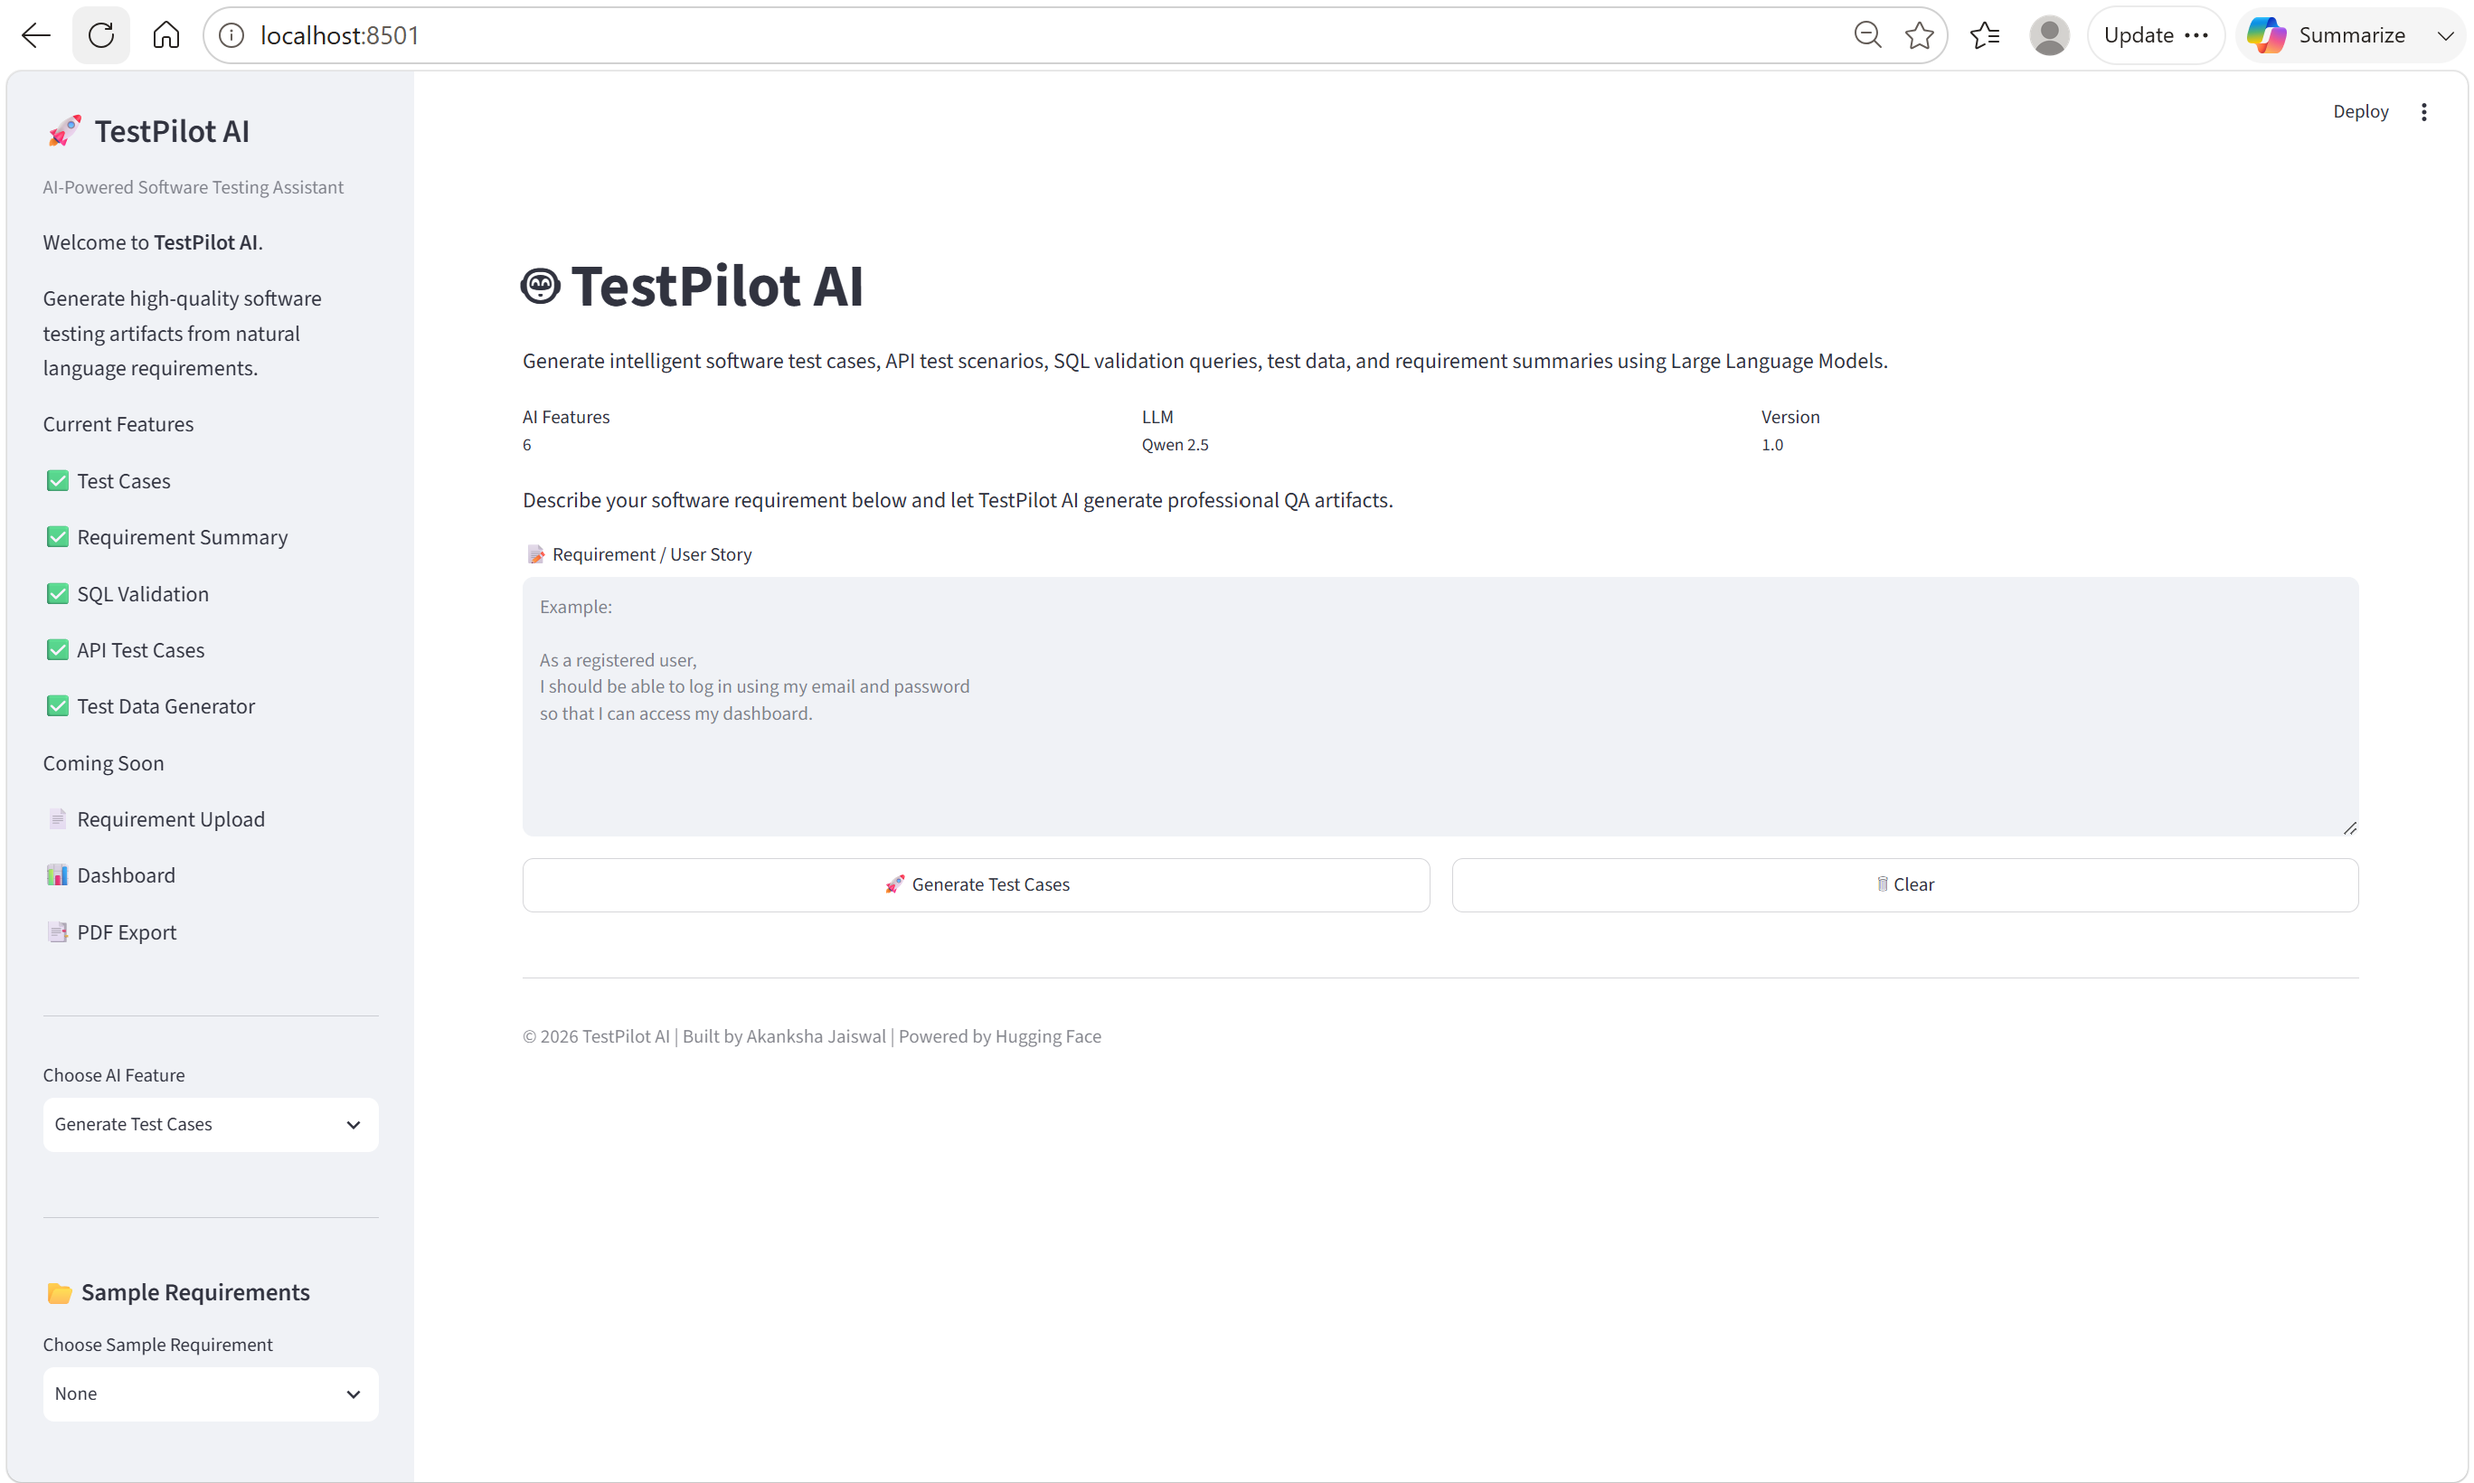
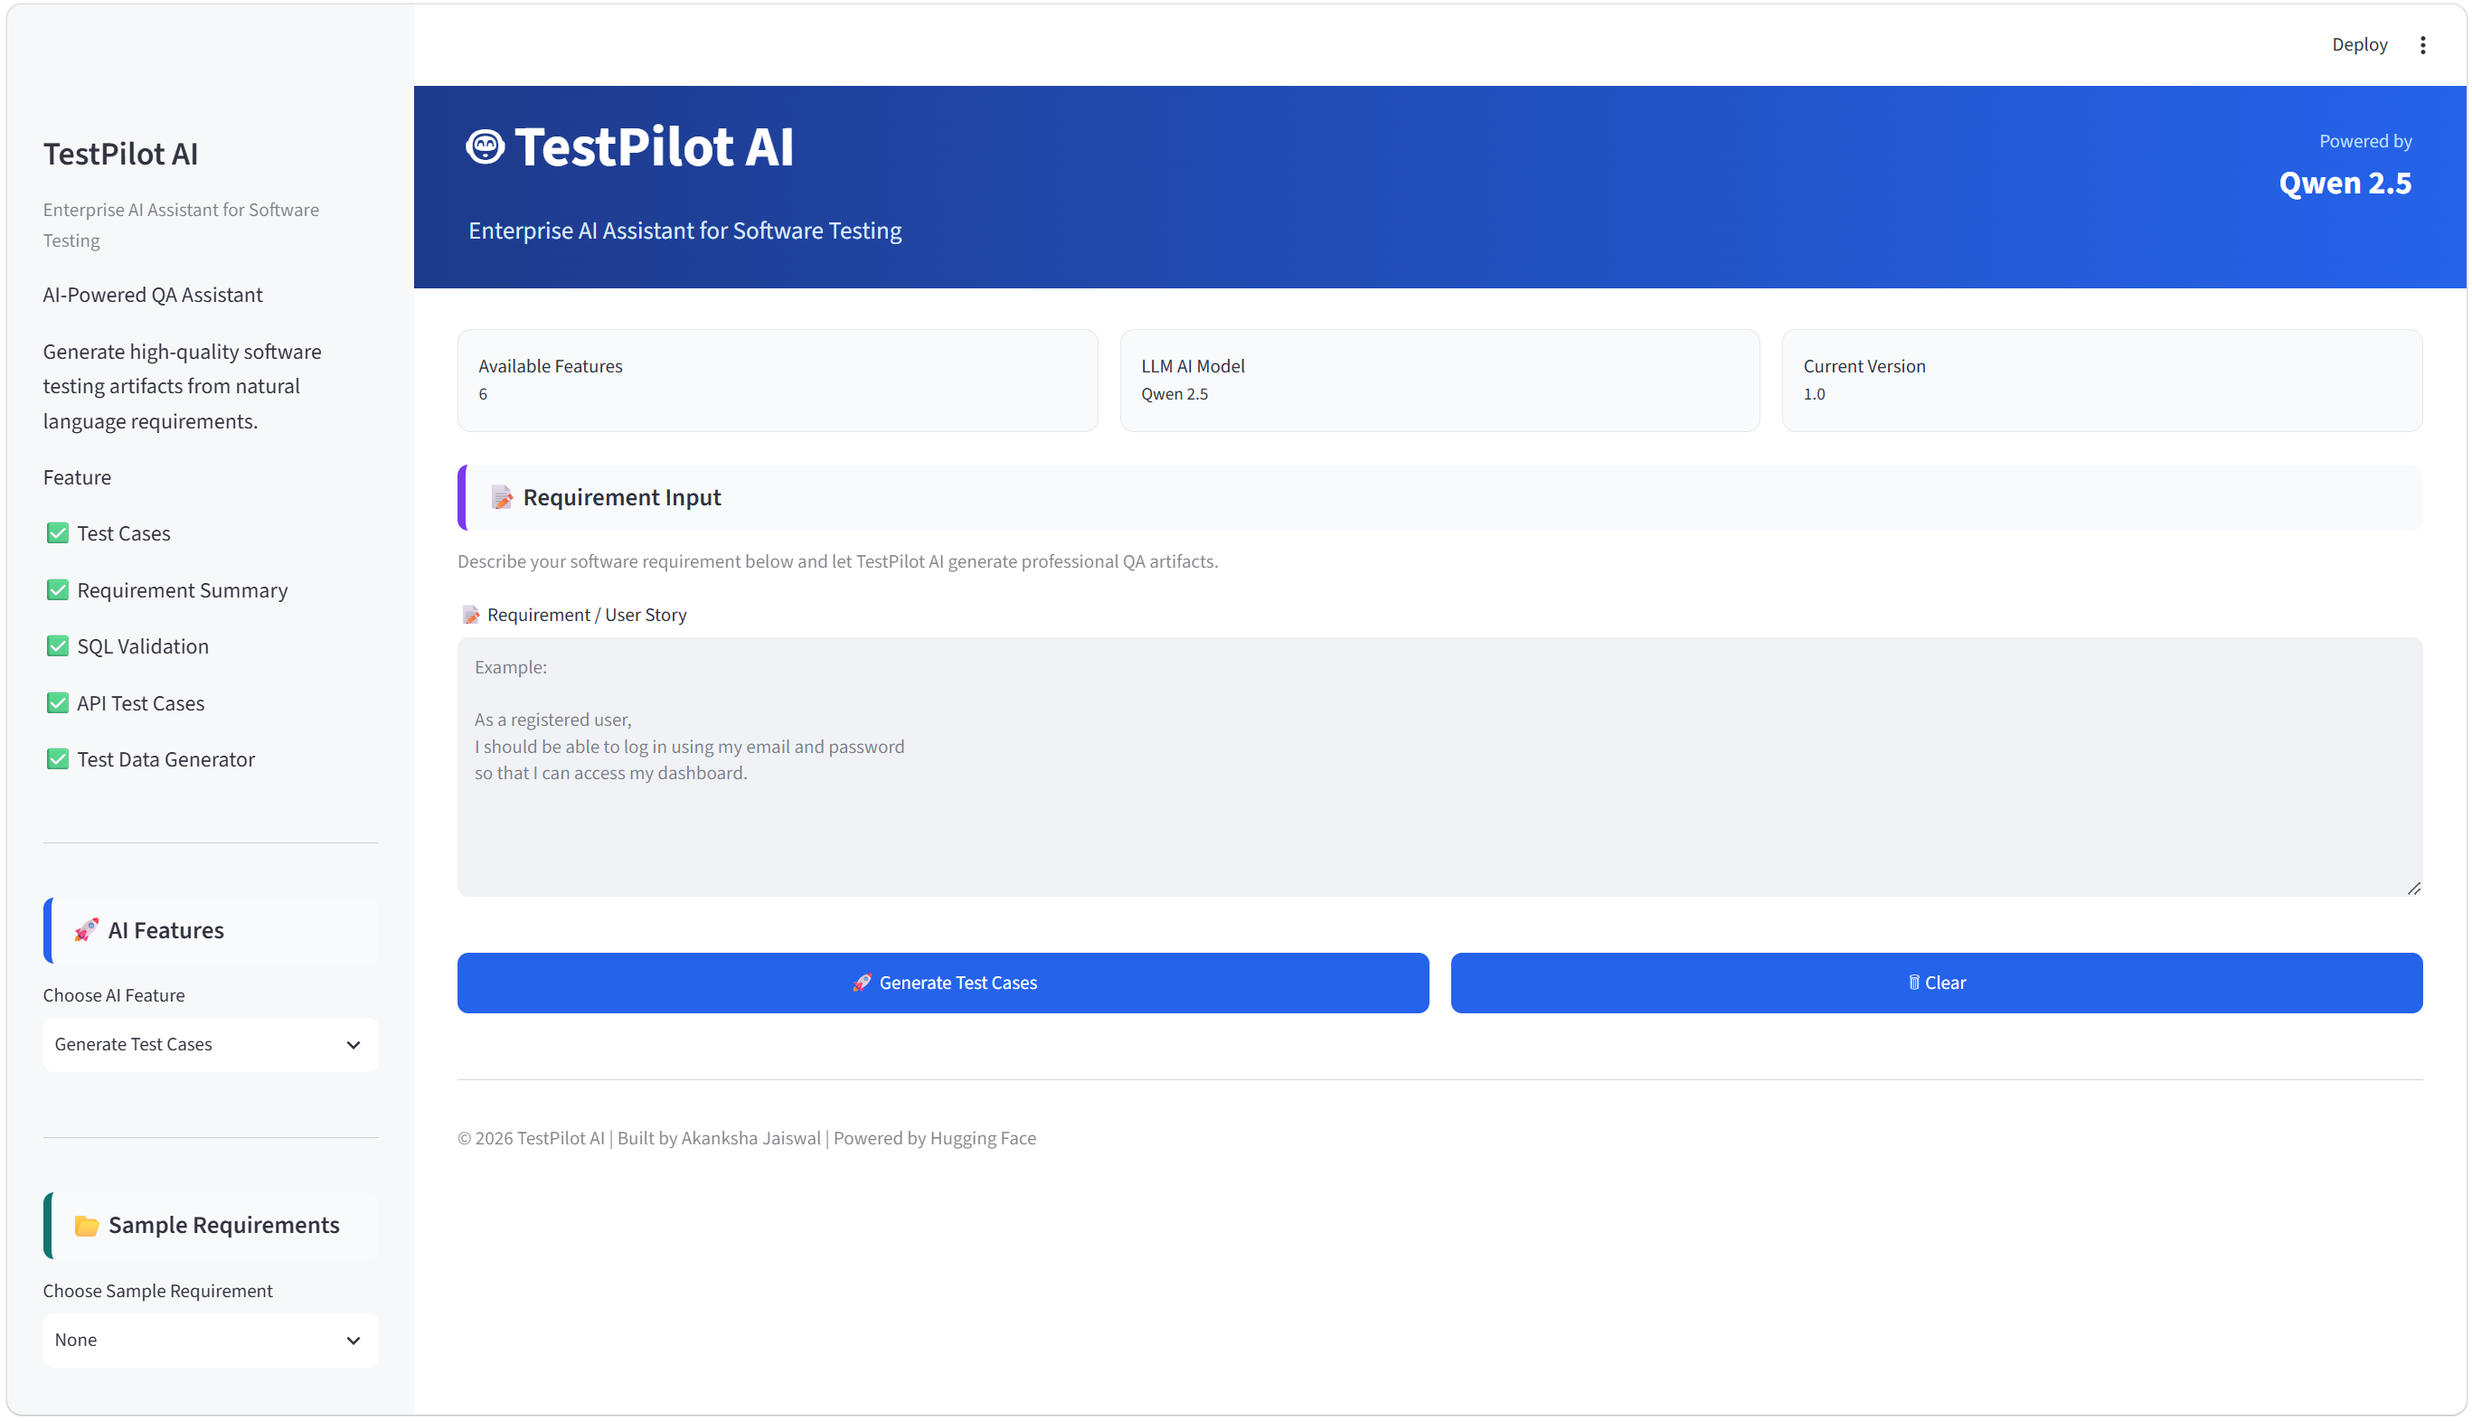
Version 1.0 UI improvements

diff --git a/app.py b/app.py
@@ -413,7 +413,9 @@ if generate:
                     result = generate_test_data(user_story)
                 
                 elif feature == "Generate API Test Cases":
+                    st.write("✅ Calling API Test Case Generator...")
                     result = generate_api_test_cases(user_story)
+                    st.write(result)
 
                 else:
                     result = "🚧 This feature is coming soon."
